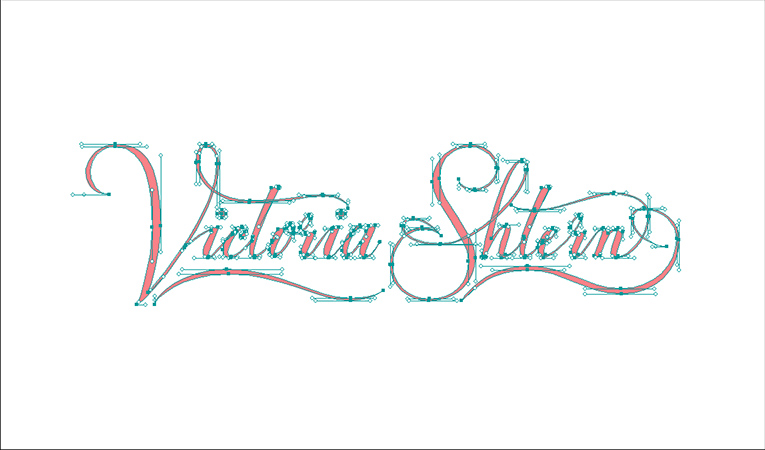
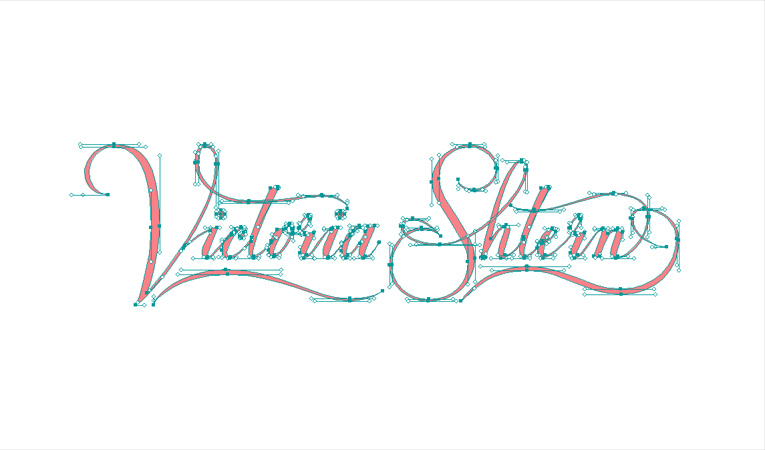
added lettering section

Changed region(s): [[0.0902, 0.3111, 0.902, 0.6844], [0.0, 0.9956, 1.0, 1.0], [0.7516, 0.5911, 0.8719, 0.6533]]

diff --git a/public/js/templates.js b/public/js/templates.js
@@ -14,7 +14,7 @@ helpers = this.merge(helpers, Handlebars.helpers); data = data || {};
   
 
 
-  return "\r\n<div class=\"row break\">\r\n</div>\r\n<div class=\"row break\">\r\n</div>\r\n<div class=\"content\">\r\n    <div class=\"row\">\r\n        <div class=\"col-md-4 col-sm-6 col-xs-12\">\r\n            <div class=\"portfolio element1\">\r\n\r\n                <div class=\"label1\">\r\n                    <div class=\"label_text\">\r\n                        Brand Identity / Logo\r\n                    </div>\r\n                </div>\r\n            </div>\r\n        </div>\r\n        <div class=\"col-md-4 col-sm-6 col-xs-12\">\r\n            <div class=\"portfolio element2\">\r\n                <div class=\"label1\">\r\n                    <div class=\"label_text\">\r\n                        UX / UI\r\n                    </div>\r\n                </div>\r\n            </div>\r\n        </div>\r\n        <div class=\"col-md-4 col-sm-6 col-xs-12\">\r\n            <div class=\"portfolio element6\">\r\n                <div class=\"label1\">\r\n                    <div class=\"label_text\">\r\n                        UI\r\n                    </div>\r\n                </div>\r\n            </div>\r\n        </div>\r\n        <div class=\"col-md-4 col-sm-6 col-xs-12\">\r\n            <div class=\"portfolio element3\">\r\n                <div class=\"label1\">\r\n                    <div class=\"label_text\">\r\n                        Logo / Layout\r\n                    </div>\r\n                </div>\r\n            </div>\r\n        </div>\r\n\r\n        <div class=\"col-md-4 col-sm-6 col-xs-12\">\r\n            <div class=\"portfolio element4\">\r\n\r\n                <div class=\"label1\">\r\n                    <div class=\"label_text\">\r\n                        UX / UI\r\n                    </div>\r\n                </div>\r\n            </div>\r\n        </div>\r\n        <div class=\"col-md-4 col-sm-6 col-xs-12\">\r\n            <div class=\"portfolio element5\">\r\n                <div class=\"label1\">\r\n                    <div class=\"label_text\">\r\n                        Graphic Design\r\n                    </div>\r\n                </div>\r\n            </div>\r\n        </div>\r\n\r\n\r\n    </div>\r\n</div>\r\n";
+  return "\r\n<div class=\"row break\">\r\n</div>\r\n<div class=\"row break\">\r\n</div>\r\n<div class=\"content\">\r\n    <div class=\"row\">\r\n        <div class=\"col-md-4 col-sm-6 col-xs-12\">\r\n            <div class=\"portfolio element1\">\r\n\r\n                <div class=\"label1\">\r\n                    <div class=\"label_text\">\r\n                        Brand Identity / Logo\r\n                    </div>\r\n                </div>\r\n            </div>\r\n        </div>\r\n        <div class=\"col-md-4 col-sm-6 col-xs-12\">\r\n            <div class=\"portfolio element2\">\r\n                <div class=\"label1\">\r\n                    <div class=\"label_text\">\r\n                        UX / UI\r\n                    </div>\r\n                </div>\r\n            </div>\r\n        </div>\r\n        <div class=\"col-md-4 col-sm-6 col-xs-12\">\r\n            <div class=\"portfolio element6\">\r\n                <div class=\"label1\">\r\n                    <div class=\"label_text\">\r\n                        UI\r\n                    </div>\r\n                </div>\r\n            </div>\r\n        </div>\r\n        <div class=\"col-md-4 col-sm-6 col-xs-12\">\r\n            <div class=\"portfolio element3\">\r\n                <div class=\"label1\">\r\n                    <div class=\"label_text\">\r\n                        Logo / Layout\r\n                    </div>\r\n                </div>\r\n            </div>\r\n        </div>\r\n\r\n        <div class=\"col-md-4 col-sm-6 col-xs-12\">\r\n            <div class=\"portfolio element8\">\r\n\r\n                <div class=\"label1\">\r\n                    <div class=\"label_text\">\r\n                        Logotype\r\n                    </div>\r\n                </div>\r\n            </div>\r\n        </div>\r\n        <div class=\"col-md-4 col-sm-6 col-xs-12\">\r\n            <div class=\"portfolio element4\">\r\n\r\n                <div class=\"label1\">\r\n                    <div class=\"label_text\">\r\n                        UX / UI\r\n                    </div>\r\n                </div>\r\n            </div>\r\n        </div>\r\n        <div class=\"col-md-4 col-sm-6 col-xs-12\">\r\n            <div class=\"portfolio element5\">\r\n                <div class=\"label1\">\r\n                    <div class=\"label_text\">\r\n                        Graphic Design\r\n                    </div>\r\n                </div>\r\n            </div>\r\n        </div>\r\n\r\n\r\n    </div>\r\n</div>\r\n";
   });
 templates['work_graphicdesign'] = template(function (Handlebars,depth0,helpers,partials,data) {
   this.compilerInfo = [4,'>= 1.0.0'];
@@ -31,6 +31,14 @@ helpers = this.merge(helpers, Handlebars.helpers); data = data || {};
 
 
   return "<div class=\"row break\">\r\n</div>\r\n<div class=\"row break\">\r\n</div>\r\n<div class=\"content\">\r\n    <div class=\"workcontainer\">\r\n        <div class=\"row descriptline\">\r\n            <div class=\"col-md-12 col-sm-12 col-xs-12 about copy\">Miscellaneous illustrations\r\n            </div>\r\n        </div>\r\n\r\n        <div class=\"row\">\r\n            <div class=\"col-md-12 col-sm-12 col-xs-12 work\"><img class=\"imgwork\"\r\n                                                                 src=\"../img/ss/ss_view_01.jpg\"\r\n                                                                 alt=\"\"/>\r\n            </div>\r\n        </div>\r\n        <div class=\"row\">\r\n            <div class=\"col-md-12 col-sm-12 col-xs-12 work\"><img class=\"imgwork\"\r\n                                                                 src=\"../img/ss/ss_hints.jpg\"\r\n                                                                 alt=\"\"/>\r\n            </div>\r\n        </div>\r\n        <div class=\"row\">\r\n            <div class=\"col-md-12 col-sm-12 col-xs-12 work\"><img class=\"imgwork\"\r\n                                                                 src=\"../img/ss/ss_view_02.jpg\" alt=\"\"/>\r\n            </div>\r\n        </div>\r\n        <div class=\"row\">\r\n            <div class=\"col-md-12 col-sm-12 col-xs-12 work\"><img class=\"imgwork\"\r\n                                                                 src=\"../img/ss/ss_sketch.jpg\" alt=\"\"/>\r\n            </div>\r\n        </div>\r\n\r\n    </div>\r\n</div>";
+  });
+templates['work_lettering'] = template(function (Handlebars,depth0,helpers,partials,data) {
+  this.compilerInfo = [4,'>= 1.0.0'];
+helpers = this.merge(helpers, Handlebars.helpers); data = data || {};
+  
+
+
+  return "<div class=\"row break\">\r\n</div>\r\n<div class=\"row break\">\r\n</div>\r\n<div class=\"content\">\r\n    <div class=\"workcontainer\">\r\n        <div class=\"row descriptline\">\r\n            <div class=\"col-md-12 col-sm-12 col-xs-12 about copy\">Logotype and business card layout.\r\n            </div>\r\n        </div>\r\n\r\n        <div class=\"row\">\r\n            <div class=\"col-md-12 col-sm-12 col-xs-12 work\"><img class=\"imgwork\"\r\n                                                                 src=\"../img/lettering/vika_sketch.jpg\"\r\n                                                                 alt=\"\"/>\r\n            </div>\r\n            <div class=\"col-md-12 col-sm-12 col-xs-12 work\"><img class=\"imgwork\"\r\n                                                                 src=\"../img/lettering/vika_bezier1.jpg\"\r\n                                                                 alt=\"\"/>\r\n            </div>\r\n            <div class=\"col-md-12 col-sm-12 col-xs-12 work\"><img class=\"imgwork\"\r\n                                                                 src=\"../img/lettering/vika_mockup.jpg\"\r\n                                                                 alt=\"\"/>\r\n            </div>\r\n        </div>\r\n\r\n\r\n    </div>\r\n</div>";
   });
 templates['work_lnl'] = template(function (Handlebars,depth0,helpers,partials,data) {
   this.compilerInfo = [4,'>= 1.0.0'];

diff --git a/public/js/main.js b/public/js/main.js
@@ -69,6 +69,13 @@ $(function () {
             currentPage.show();
             // $("html, body").animate({ scrollTop: 0 });
             window.scrollTo(0, 0);
+        },
+        'work_lettering': function () {
+            currentPage.hide();
+            currentPage = birds[8];
+            currentPage.show();
+            // $("html, body").animate({ scrollTop: 0 });
+            window.scrollTo(0, 0);
         }
     });
 
@@ -107,6 +114,9 @@ $(function () {
     $('.element6').click(function () {
         routie('work_ui');
     });
+    $('.element8').click(function () {
+        routie('work_lettering');
+    });
 
     function hide(elementsArray) {
         elementsArray.forEach(function (element) {
@@ -134,6 +144,8 @@ $(function () {
         pages[6].html(Handlebars.templates['work_graphicdesign']());
         pages[7] = $(".page7");
         pages[7].html(Handlebars.templates['work_ui']());
+        pages[8] = $(".page8");
+        pages[8].html(Handlebars.templates['work_lettering']());
 
         return pages;
     }

diff --git a/public/css/style.css b/public/css/style.css
@@ -396,6 +396,9 @@ body {
 .element6 {
     background-image: url("../img/portfolio_elements6.jpg");
 }
+.element8 {
+    background-image: url("../img/portfolio_elements-07.jpg");
+}
 /*.page2 .content
 {
     background-color: black;

diff --git a/public/index.html b/public/index.html
@@ -65,6 +65,7 @@
         <div class="page5"></div>
         <div class="page6"></div>
         <div class="page7"></div>
+        <div class="page8"></div>
         <!--(handlebars templates\ -f js\templates.js)-->
 
 
